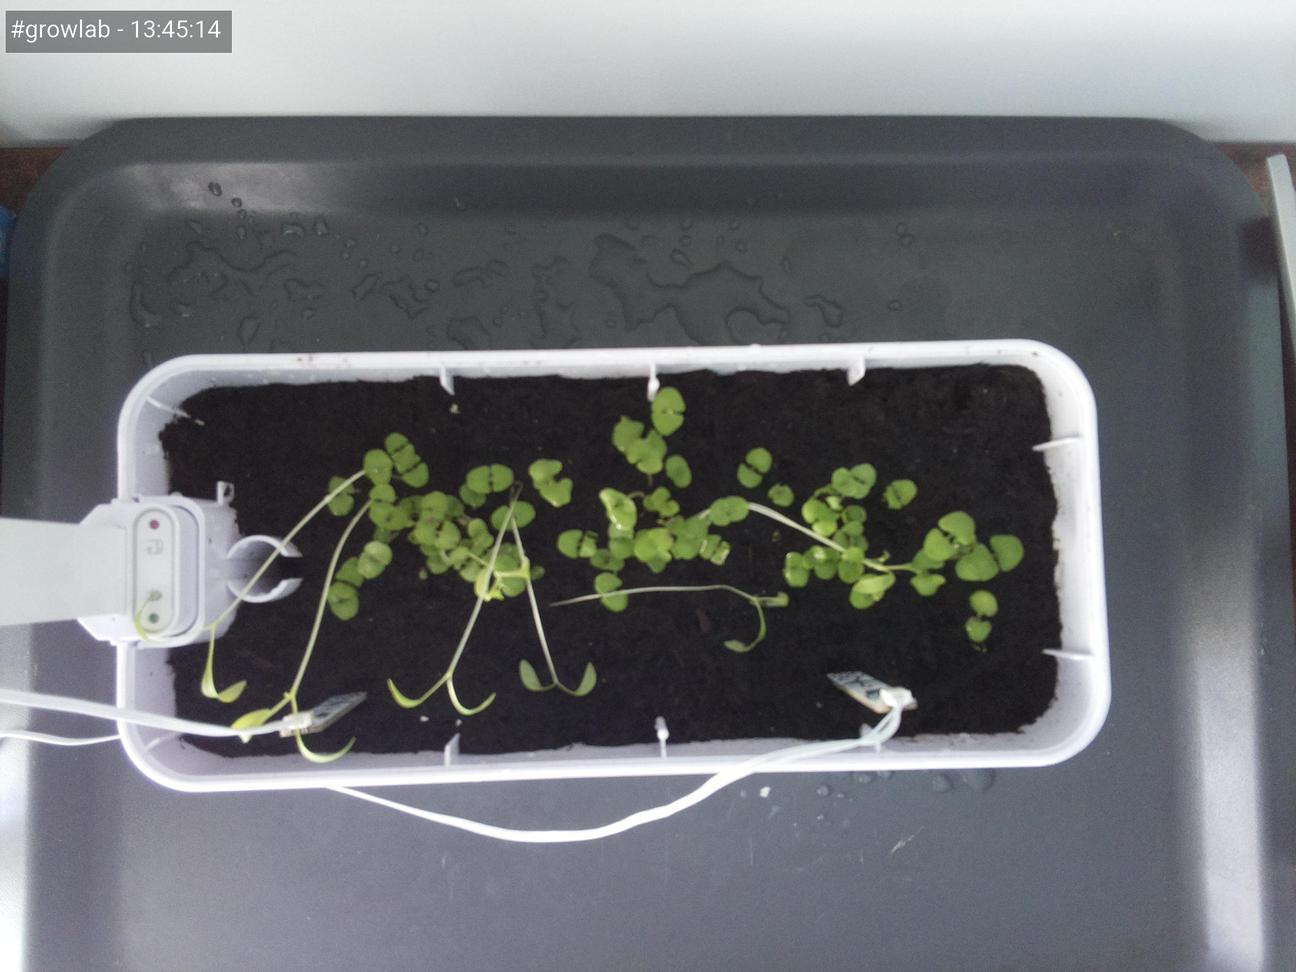
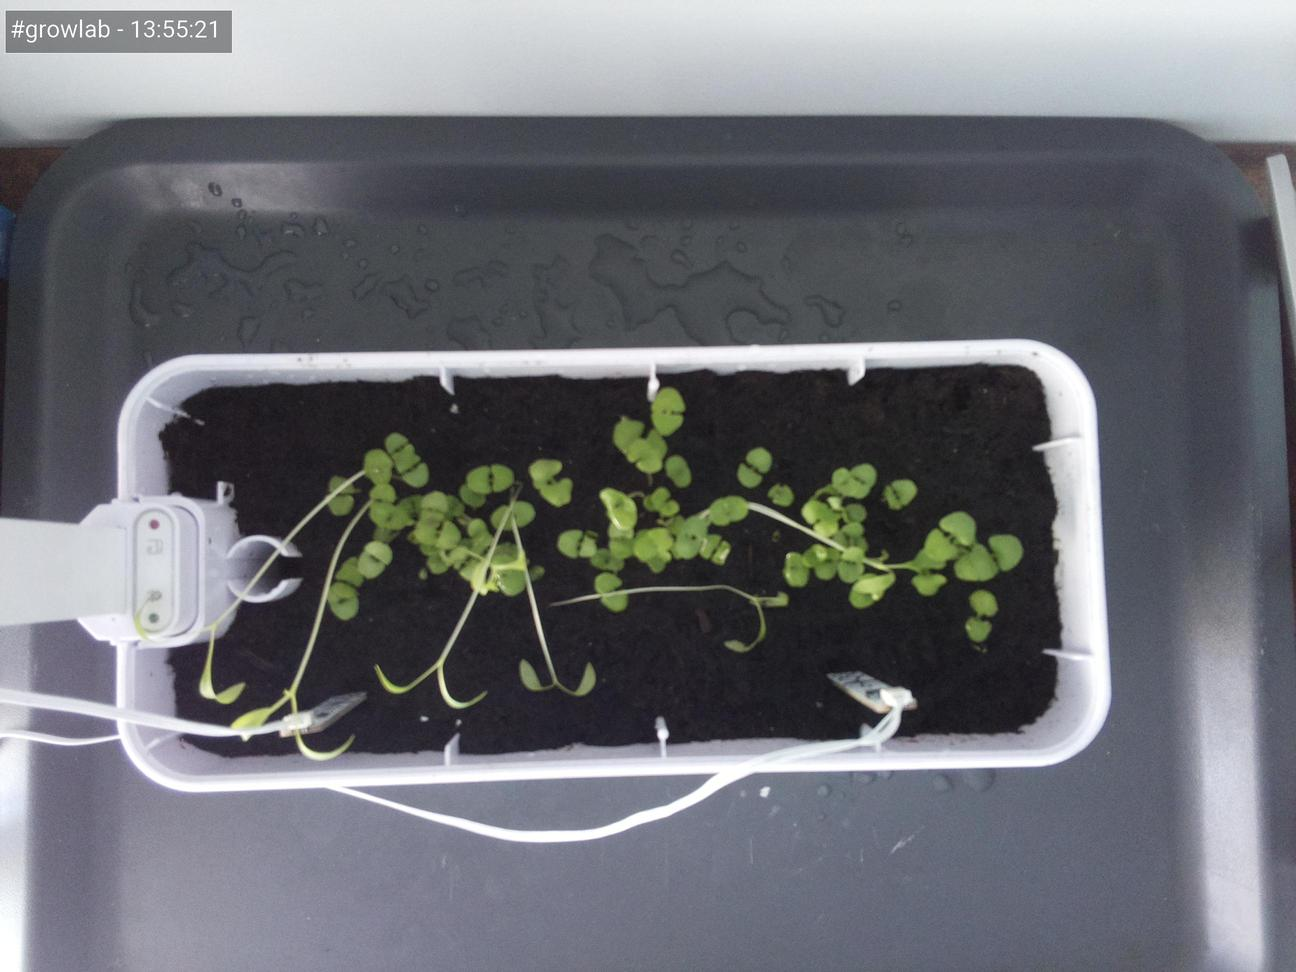
Update images at Thu 14 Oct 13:55:24 BST 2021

diff --git a/docs/index.html b/docs/index.html
@@ -47,7 +47,7 @@
                         <tbody>
                             <tr>
                                 <td>Time</td>
-                                <td>13:45:14</td>
+                                <td>13:55:21</td>
                             </tr>
                             <tr>
                                 <td>Temperature</td>
@@ -67,7 +67,7 @@
 
                 <h5>Latest image</h5>
                 <div style="width: 85%;">
-                            <img class="figure-img img-fluid rounded" src="./preview.jpg?uid=1634215517.2217498">
+                            <img class="figure-img img-fluid rounded" src="./preview.jpg?uid=1634216124.1953151">
                 </div>
             </div>
         </div>
